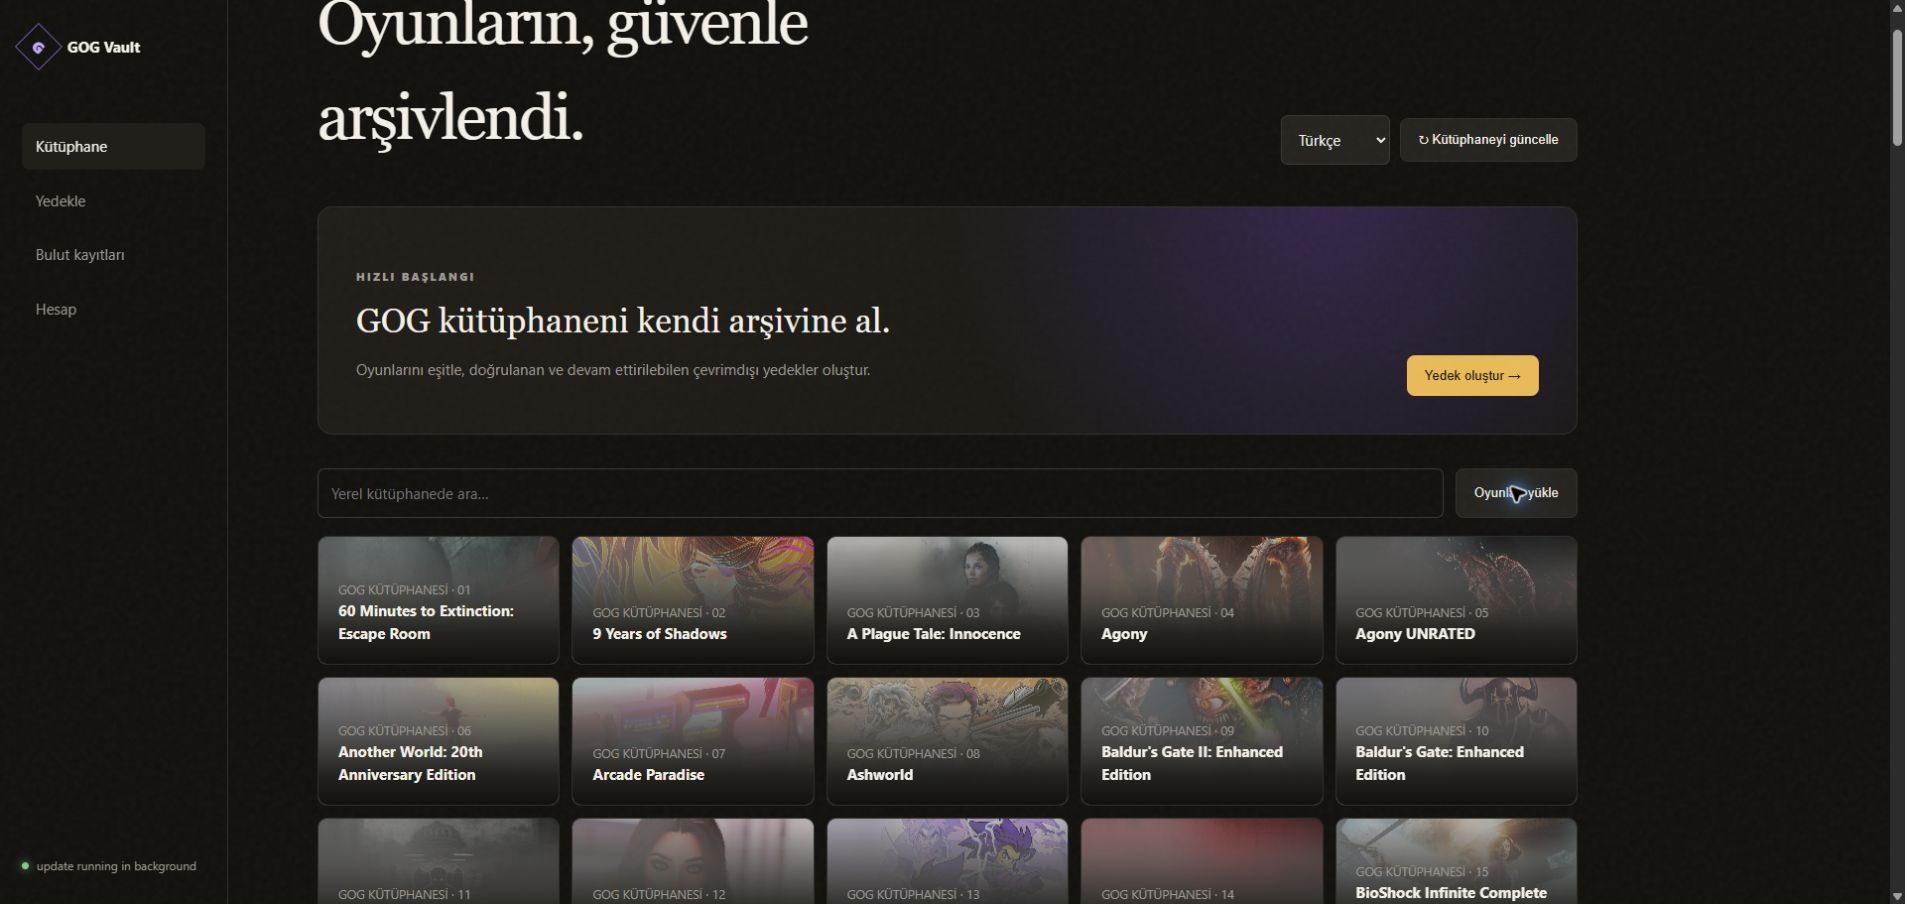
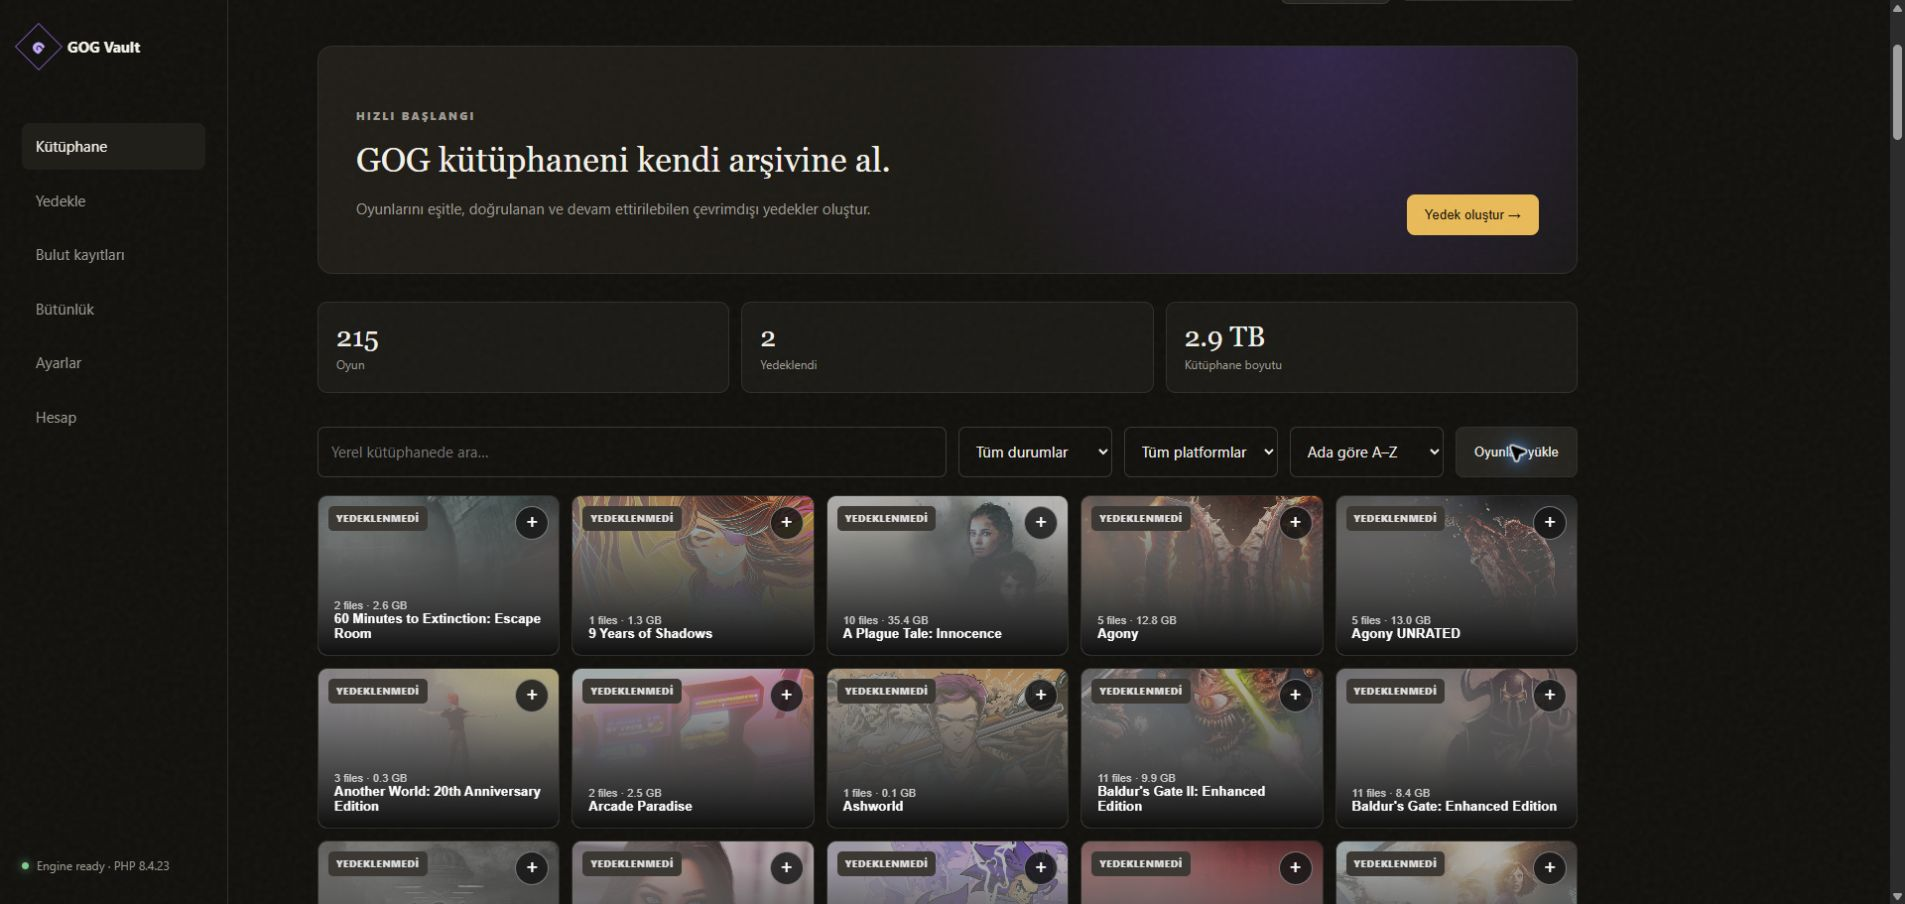
Add Turkish screenshot gallery

diff --git a/ui/i18n.js b/ui/i18n.js
@@ -13,9 +13,12 @@ const translations={tr:{
   'Sign in and copy the final blank-page URL.':'Giriş yap ve son boş sayfanın adresini kopyala.','Paste it below; it is sent only to this local app.':'Aşağıya yapıştır; yalnızca bu yerel uygulamaya gönderilir.',
   'Open GOG sign-in ↗':'GOG girişini aç ↗','Redirect URL or code':'Yönlendirme adresi veya kod','Connect account':'Hesabı bağla',
   'No library selection — all matching games will be downloaded.':'Kütüphaneden seçim yok — eşleşen tüm oyunlar indirilecek.','games selected':'oyun seçildi','SELECTED':'SEÇİLDİ','GOG LIBRARY':'GOG KÜTÜPHANESİ','Clear':'Temizle','Back up selected →':'Seçilenleri yedekle →',
-  'Integrity':'Bütünlük','Settings':'Ayarlar','Games':'Oyun','Backed up':'Yedeklendi','Library size':'Kütüphane boyutu','All statuses':'Tüm durumlar','Not backed up':'Yedeklenmedi','All platforms':'Tüm platformlar','Title A–Z':'Ada göre A–Z','Largest first':'Önce en büyük','Backup status':'Yedek durumu','BACKED UP':'YEDEKLENDİ','NOT BACKED UP':'YEDEKLENMEDİ','GAME DETAILS':'OYUN AYRINTILARI','INTEGRITY & REPAIR':'BÜTÜNLÜK VE ONARIM','Verify your local archive':'Yerel arşivini doğrula','Verify & repair archive':'Arşivi doğrula ve onar','APPEARANCE':'GÖRÜNÜM','Make GOG Vault yours':'GOG Vault görünümünü özelleştir','Theme':'Tema'
+  'Integrity':'Bütünlük','Settings':'Ayarlar','Games':'Oyun','Backed up':'Yedeklendi','Library size':'Kütüphane boyutu','All statuses':'Tüm durumlar','Not backed up':'Yedeklenmedi','All platforms':'Tüm platformlar','Title A–Z':'Ada göre A–Z','Largest first':'Önce en büyük','Backup status':'Yedek durumu','BACKED UP':'YEDEKLENDİ','NOT BACKED UP':'YEDEKLENMEDİ','GAME DETAILS':'OYUN AYRINTILARI','INTEGRITY & REPAIR':'BÜTÜNLÜK VE ONARIM','Verify your local archive':'Yerel arşivini doğrula','Verify & repair archive':'Arşivi doğrula ve onar','APPEARANCE':'GÖRÜNÜM','Make GOG Vault yours':'GOG Vault görünümünü özelleştir','Theme':'Tema',
+  'Loading game details…':'Oyun ayrıntıları yükleniyor…','Game details unavailable':'Oyun ayrıntıları kullanılamıyor','Details unavailable':'Ayrıntılar kullanılamıyor','files':'dosya','extras':'ekstra','Installers & patches':'Kurulum dosyaları ve yamalar','Extras':'Ekstralar','patch':'yama',
+  'Checks existing installers against GOG checksums. Missing or damaged files are downloaded again; valid files are skipped.':'Mevcut kurulum dosyalarını GOG sağlama toplamlarıyla denetler. Eksik veya bozuk dosyalar yeniden indirilir; geçerli dosyalar atlanır.','Select games in the Library, or verify the whole archive.':'Kütüphaneden oyun seç veya tüm arşivi doğrula.'
 }};
 window.t=text=>(translations[localStorage.getItem('gog-vault-locale')||'en']||{})[text]||text;
 const originalText=new WeakMap();
-function applyLocale(locale){document.documentElement.lang=locale;localStorage.setItem('gog-vault-locale',locale);const dict=translations[locale]||{};document.querySelectorAll('button,h1,h2,h3,p,li,label,.eyebrow,.selected-summary').forEach(el=>{if(el.children.length&&el.tagName!=='BUTTON')return;if(!originalText.has(el))originalText.set(el,el.textContent.trim());const source=originalText.get(el);if(dict[source])el.textContent=dict[source];else if(locale==='en')el.textContent=source});const placeholders=locale==='tr'?{search:'Yerel kütüphanede ara…',directory:'Boş bırakırsan varsayılan klasör kullanılır',language:'tr',only:'İsteğe bağlı — seçili oyunlar zaten dahil',saveDirectory:'Kayıt yedekleme klasörü',loginCode:'GOG yönlendirme adresini yapıştır…'}:{search:'Search local library…',directory:'Leave empty to use the default',language:'en',only:'Optional — selected library games are already included',saveDirectory:'Cloud save backup folder',loginCode:'Paste the GOG redirect URL…'};Object.entries(placeholders).forEach(([id,value])=>{const el=document.getElementById(id);if(el)el.placeholder=value})}
+function applyLocale(locale){document.documentElement.lang=locale;localStorage.setItem('gog-vault-locale',locale);const dict=translations[locale]||{};document.querySelectorAll('button,h1,h2,h3,p,li,label,.eyebrow,.selected-summary,.checks span').forEach(el=>{if(el.children.length&&el.tagName!=='BUTTON')return;if(!originalText.has(el))originalText.set(el,el.textContent.trim());const source=originalText.get(el);if(dict[source])el.textContent=dict[source];else if(locale==='en')el.textContent=source});const placeholders=locale==='tr'?{search:'Yerel kütüphanede ara…',directory:'Boş bırakırsan varsayılan klasör kullanılır',language:'tr',only:'İsteğe bağlı — seçili oyunlar zaten dahil',saveDirectory:'Kayıt yedekleme klasörü',loginCode:'GOG yönlendirme adresini yapıştır…'}:{search:'Search local library…',directory:'Leave empty to use the default',language:'en',only:'Optional — selected library games are already included',saveDirectory:'Cloud save backup folder',loginCode:'Paste the GOG redirect URL…'};Object.entries(placeholders).forEach(([id,value])=>{const el=document.getElementById(id);if(el)el.placeholder=value})}
 const localeSelect=document.getElementById('locale');localeSelect.value=localStorage.getItem('gog-vault-locale')||((navigator.language||'').startsWith('tr')?'tr':'en');localeSelect.addEventListener('change',()=>applyLocale(localeSelect.value));applyLocale(localeSelect.value);
+function applyExtendedLocale(){const dict=translations[localeSelect.value]||{};document.querySelectorAll('.stats span,option').forEach(el=>{const source=el.dataset.source||el.textContent.trim();el.dataset.source=source;el.textContent=dict[source]||source})}localeSelect.addEventListener('change',applyExtendedLocale);applyExtendedLocale();

diff --git a/ui/app.js b/ui/app.js
@@ -30,7 +30,7 @@ async function loadLibrary(){try{const data=await fetch('/api/library').then(r=>
 $('#refreshBtn').onclick=async()=>{const ok=await run('update');if(ok){notify('Library synced','Your local game list is up to date.');await loadLibrary()}};
 $('#listGames').onclick=loadLibrary;
 function renderGames(){const q=$('#search').value.toLowerCase(),status=$('#statusFilter').value,platform=$('#platformFilter').value,sort=$('#sortGames').value;let filtered=games.filter(g=>g.title.toLowerCase().includes(q)&&(status==='all'||(status==='backed')===g.backed_up)&&(platform==='all'||g.platforms.includes(platform)));filtered.sort((a,b)=>sort==='size'?b.total_size-a.total_size:sort==='status'?Number(b.backed_up)-Number(a.backed_up):a.title.localeCompare(b.title));$('#games').innerHTML=filtered.length?filtered.map((g,i)=>`<article class="game${selectedGames.has(g.title)?' selected':''}" data-game="${encodeURIComponent(g.title)}"><img loading="lazy" src="/api/artwork?id=${g.game_id}" alt="" onerror="this.classList.add('missing')"><span class="game-shade"></span><span class="status-badge ${g.backed_up?'backed':'missing'}">${g.backed_up?'✓ '+t('BACKED UP'):t('NOT BACKED UP')}</span><button class="select-game" aria-label="Select ${escapeHtml(g.title)}">${selectedGames.has(g.title)?'✓':'+'}</button><button class="detail-game" data-id="${g.game_id}" aria-label="Details ${escapeHtml(g.title)}"><small>${g.file_count} files · ${formatSize(g.total_size)}</small><strong>${escapeHtml(g.title)}</strong></button></article>`).join(''):'<div class="empty"><h3>No matching games</h3><p>Try changing the filters.</p></div>';$$('.select-game').forEach(btn=>btn.onclick=e=>{e.stopPropagation();const name=decodeURIComponent(btn.closest('.game').dataset.game);selectedGames.has(name)?selectedGames.delete(name):selectedGames.add(name);renderGames();updateSelection()});$$('.detail-game').forEach(btn=>btn.onclick=()=>openGameDetail(btn.dataset.id))}
-async function openGameDetail(id){const modal=$('#gameDetail'),content=$('#detailContent');content.innerHTML='<p>Loading game details…</p>';modal.showModal();try{const data=await fetch(`/api/game?id=${id}`).then(r=>{if(!r.ok)throw new Error('Game details unavailable');return r.json()});const platforms=[...new Set(data.downloads.map(x=>x.platform))].join(', ');content.innerHTML=`<img class="detail-art" src="/api/artwork?id=${id}" alt=""><p class="eyebrow">${t('GAME DETAILS')}</p><h2>${escapeHtml(data.game.title)}</h2><div class="detail-meta"><span>${data.downloads.length} files</span><span>${formatSize(data.downloads.reduce((s,x)=>s+Number(x.size),0))}</span><span>${escapeHtml(platforms||'—')}</span><span>${data.extras.length} extras</span></div><h3>Installers & patches</h3><div class="file-list">${data.downloads.slice(0,30).map(x=>`<div><b>${escapeHtml(x.name)}</b><small>${escapeHtml(x.platform)} · ${escapeHtml(x.language)} · ${formatSize(Number(x.size))}${Number(x.is_patch)?' · patch':''}</small></div>`).join('')}</div>${data.extras.length?`<h3>Extras</h3><div class="file-list">${data.extras.map(x=>`<div><b>${escapeHtml(x.name)}</b><small>${formatSize(Number(x.size))}</small></div>`).join('')}</div>`:''}`}catch(e){content.innerHTML=`<h2>Details unavailable</h2><p>${escapeHtml(e.message)}</p>`}}
+async function openGameDetail(id){const modal=$('#gameDetail'),content=$('#detailContent');content.innerHTML=`<p>${t('Loading game details…')}</p>`;modal.showModal();try{const data=await fetch(`/api/game?id=${id}`).then(r=>{if(!r.ok)throw new Error(t('Game details unavailable'));return r.json()});const platforms=[...new Set(data.downloads.map(x=>x.platform))].join(', ');content.innerHTML=`<img class="detail-art" src="/api/artwork?id=${id}" alt=""><p class="eyebrow">${t('GAME DETAILS')}</p><h2>${escapeHtml(data.game.title)}</h2><div class="detail-meta"><span>${data.downloads.length} ${t('files')}</span><span>${formatSize(data.downloads.reduce((s,x)=>s+Number(x.size),0))}</span><span>${escapeHtml(platforms||'—')}</span><span>${data.extras.length} ${t('extras')}</span></div><h3>${t('Installers & patches')}</h3><div class="file-list">${data.downloads.slice(0,30).map(x=>`<div><b>${escapeHtml(x.name)}</b><small>${escapeHtml(x.platform)} · ${escapeHtml(x.language)} · ${formatSize(Number(x.size))}${Number(x.is_patch)?` · ${t('patch')}`:''}</small></div>`).join('')}</div>${data.extras.length?`<h3>${t('Extras')}</h3><div class="file-list">${data.extras.map(x=>`<div><b>${escapeHtml(x.name)}</b><small>${formatSize(Number(x.size))}</small></div>`).join('')}</div>`:''}`}catch(e){content.innerHTML=`<h2>${t('Details unavailable')}</h2><p>${escapeHtml(e.message)}</p>`}}
 $('#closeDetail').onclick=()=>$('#gameDetail').close();
 function updateSelection(){const count=selectedGames.size;$('#selectionCount').textContent=count;$('#selectionBar').classList.toggle('show',count>0);$('#selectedSummary').classList.toggle('active',count>0);$('#selectedSummary').textContent=count?`${count} ${t('games selected')}: ${[...selectedGames].join(', ')}`:t('No library selection — all matching games will be downloaded.')}
 $('#clearSelection').onclick=()=>{selectedGames.clear();renderGames();updateSelection()};

diff --git a/ui/index.html b/ui/index.html
@@ -57,7 +57,7 @@
 
     <section id="backup" class="view"><div class="panel"><p class="eyebrow">CLOUD SAVES</p><h2>Back up your progress</h2><p>Download cloud saves for every supported game into your archive.</p><label>Destination<input id="saveDirectory" placeholder="D:\GOG Saves"></label><button class="primary" id="savesBtn">Back up saves</button></div></section>
 
-    <section id="integrity" class="view"><div class="panel"><p class="eyebrow">INTEGRITY & REPAIR</p><h2>Verify your local archive</h2><p>Checks existing installers against GOG checksums. Missing or damaged files are downloaded again; valid files are skipped.</p><div class="selected-summary active" id="integritySummary">Select games in the Library, or verify the whole archive.</div><div class="checks"><label><input type="checkbox" id="repairExtras"> Include extras</label></div><button class="primary" id="verifyBtn">Verify & repair archive</button></div></section>
+    <section id="integrity" class="view"><div class="panel"><p class="eyebrow">INTEGRITY & REPAIR</p><h2>Verify your local archive</h2><p>Checks existing installers against GOG checksums. Missing or damaged files are downloaded again; valid files are skipped.</p><div class="selected-summary active" id="integritySummary">Select games in the Library, or verify the whole archive.</div><div class="checks"><label><input type="checkbox" id="repairExtras"> <span>Include extras</span></label></div><button class="primary" id="verifyBtn">Verify & repair archive</button></div></section>
 
     <section id="settings" class="view"><div class="panel"><p class="eyebrow">APPEARANCE</p><h2>Make GOG Vault yours</h2><label>Theme<select id="theme"><option value="vault">Vault Gold</option><option value="galaxy">Galaxy Purple</option><option value="midnight">Midnight Blue</option><option value="light">Paper Light</option></select></label><p>Your choice is stored only in this browser.</p></div></section>
 

diff --git a/README.md b/README.md
@@ -5,9 +5,13 @@
 
 [Türkçe](#türkçe) · [English](#english) · [Upstream CLI documentation](#gog-downloader-cli)
 
-![GOG Vault game library](docs/screenshots/library-tr.png)
+## Ekran görüntüleri
 
-![Selecting games for backup](docs/screenshots/selection-tr.png)
+| Türkçe oyun kütüphanesi | Oyun ayrıntıları ve dosyalar |
+| --- | --- |
+| ![Türkçe GOG Vault oyun kütüphanesi](docs/screenshots/library-tr.png) | ![Türkçe oyun ayrıntıları](docs/screenshots/game-detail-tr.png) |
+| **Çoklu seçim ve yedekleme** | **Bütünlük doğrulama ve onarım** |
+| ![Oyun seçimi ve yedekleme](docs/screenshots/selection-tr.png) | ![Bütünlük doğrulama ve onarım](docs/screenshots/integrity-tr.png) |
 
 ## Türkçe
 